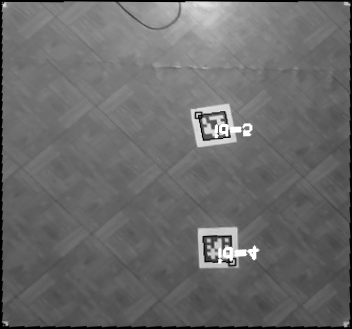
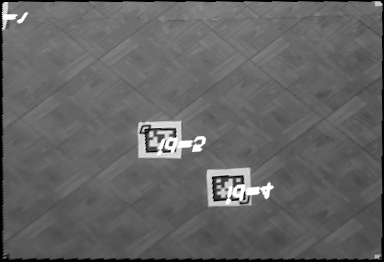
identify playground updated

diff --git a/src/identify_palyground.py b/src/identify_palyground.py
@@ -38,6 +38,7 @@ with open('camera.json', 'r') as json_file:
 dist = np.array(camera_data["dist"])
 mtx = np.array(camera_data["mtx"])
 
+
 def wrap_correction(frame, ids, corners):
     bottom_right = None
     bottom_left = None
@@ -47,9 +48,6 @@ def wrap_correction(frame, ids, corners):
     # cv2.imshow('original frame', frame)
     playground = None
 
-    # Filter out markers that you want to use for perspective transformation
-    valid_marker_ids = [0, 1, 2, 3]  # Update with the IDs of the markers you want to use
-    valid_corners = [corner[0][1] for marker_id, corner in zip(ids, corners) if marker_id[0] in valid_marker_ids]
     # Filter out markers that you want to use for perspective transformation
     # Update with the IDs of the markers you want to use
     valid_marker_ids = [0, 1, 2, 3]
@@ -62,10 +60,11 @@ def wrap_correction(frame, ids, corners):
             zip(ids, valid_corners), key=lambda x: x[0][0])]
 
         # Extract corners in order
-        top_left = tuple(map(int, sorted_corners[0]))
-        top_right = tuple(map(int, sorted_corners[1]))
-        bottom_left = tuple(map(int, sorted_corners[2]))
-        bottom_right = tuple(map(int, sorted_corners[3]))
+    # Extract the first corner of each marker
+        top_left = tuple(map(int, sorted_corners[0][0][0]))
+        top_right = tuple(map(int, sorted_corners[1][0][0]))
+        bottom_right = tuple(map(int, sorted_corners[2][0][0]))
+        bottom_left = tuple(map(int, sorted_corners[3][0][0]))
 
         # Check if all markers are detected before proceeding
         if None not in [bottom_right, bottom_left, top_right, top_left]:
@@ -132,11 +131,20 @@ def main(frame):
 
 if __name__ == "__main__":
     print("[INFO] starting video stream...")
-    # vs = VideoStream("http://192.168.1.153:4747/video").start()
-    # vs = VideoStream(src=0).start()
+    # vs = cv2.VideoCapture("http://192.168.1.153:4747/video")
+    vs = cv2.VideoCapture(1)
 
-    vs = cv2.VideoCapture(ip_address)
-    _, frame = vs.read()
+    # # Get the current resolution
+    # current_width = int(vs.get(cv2.CAP_PROP_FRAME_WIDTH))
+    # current_height = int(vs.get(cv2.CAP_PROP_FRAME_HEIGHT))
+
+    # # Calculate the new resolution (double the width and height)
+    # new_width = current_width * 2
+    # new_height = current_height * 2
+
+    # # Set the new resolution
+    # vs.set(cv2.CAP_PROP_FRAME_WIDTH, new_width)
+    # vs.set(cv2.CAP_PROP_FRAME_HEIGHT, new_height)
 
     while True:
         _, frame = vs.read()
